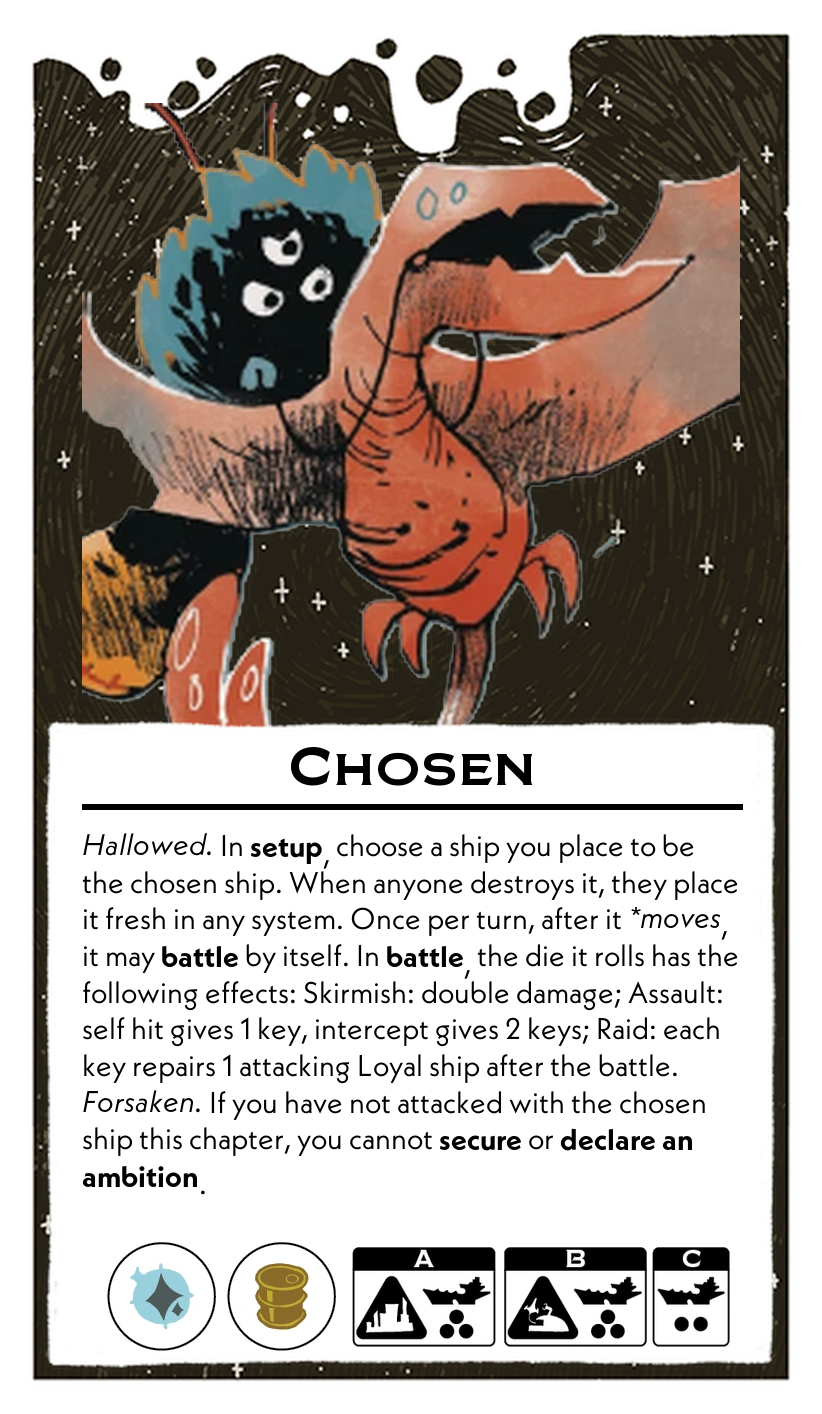
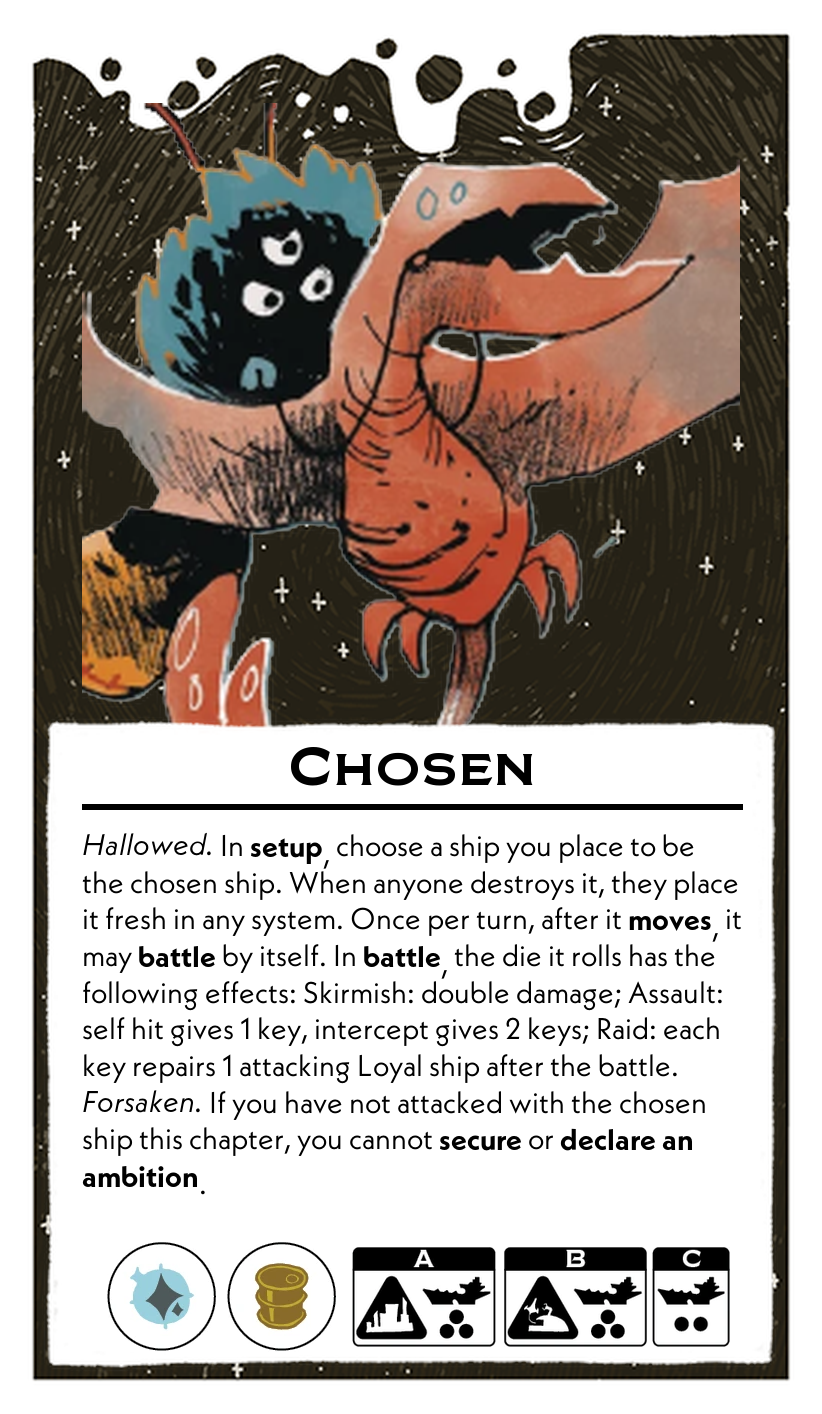
chosen

Changed region(s): [[0.1217, 0.6223, 0.9124, 0.6846]]

diff --git a/scripts/leadersFormatted.py b/scripts/leadersFormatted.py
@@ -256,7 +256,7 @@ leaders = [
     {
         "name": "Chosen",
         "abilities": (
-            "*Hallowed.* In **setup**, choose a ship you place to be the chosen ship. When anyone destroys it, they place it fresh in any system. Once per turn, after it **moves*, it may **battle** by itself. In **battle**, the die it rolls has the following effects: Skirmish: double damage; Assault: self hit gives 1 key, intercept gives 2 keys; Raid: each key repairs 1 attacking Loyal ship after the battle.\n"
+            "*Hallowed.* In **setup**, choose a ship you place to be the chosen ship. When anyone destroys it, they place it fresh in any system. Once per turn, after it **moves**, it may **battle** by itself. In **battle**, the die it rolls has the following effects: Skirmish: double damage; Assault: self hit gives 1 key, intercept gives 2 keys; Raid: each key repairs 1 attacking Loyal ship after the battle.\n"
             "*Forsaken.* If you have not attacked with the chosen ship this chapter, you cannot **secure**  or **declare** **an** **ambition**."
         ),
         "resources": ["Relic", "Fuel"],
